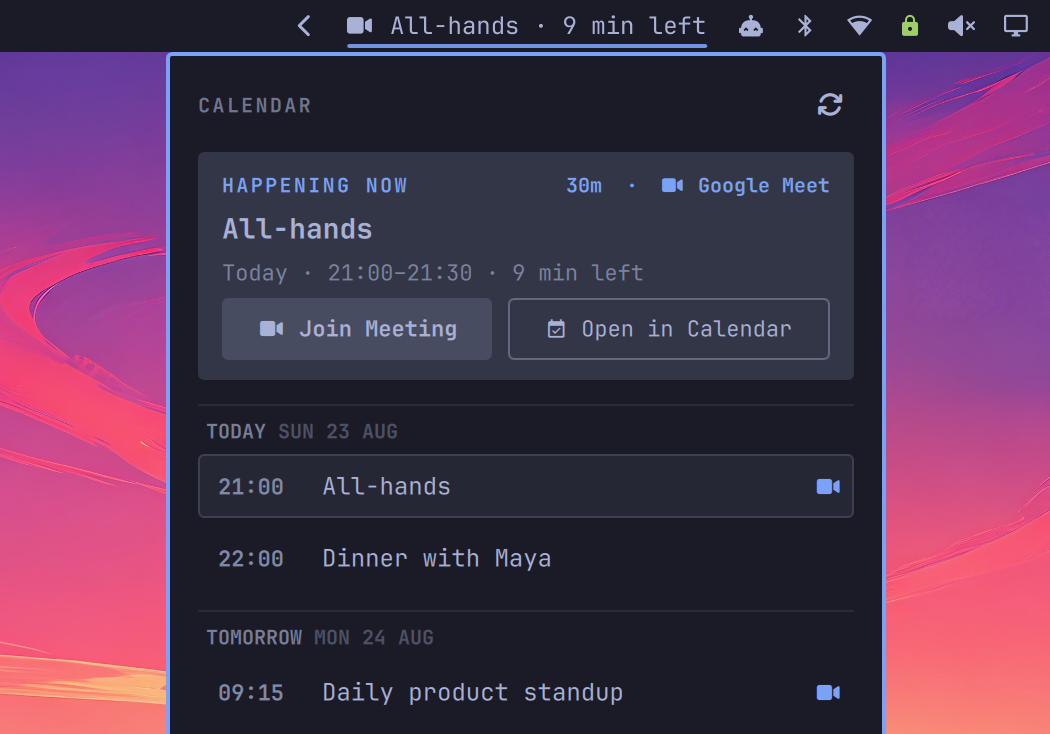
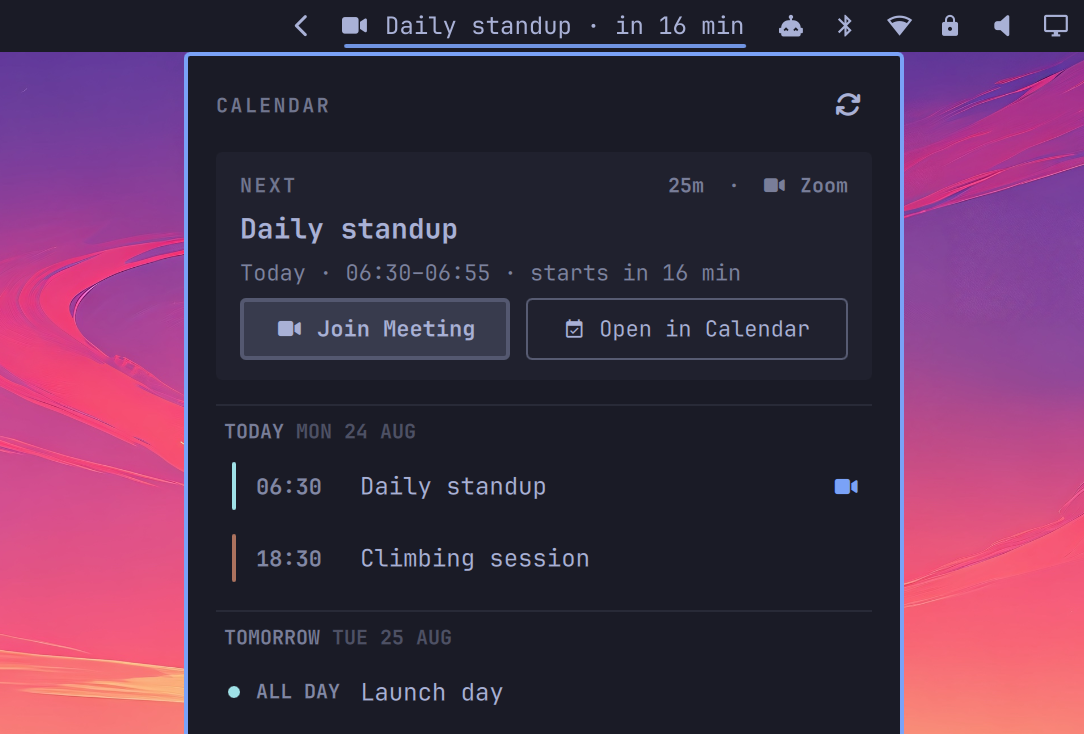
Update README

diff --git a/README.md b/README.md
@@ -1,66 +1,72 @@
 # Caldir widget for Omarchy
 
-Lightning-fast access to your next calendar events in the Omarchy bar.
-
-Supports all major calendar providers (Google Calendar, iCloud, Outlook, CalDAV...) through [caldir](https://caldir.org).
+⚡ Lightning-fast access to your calendar events in the Omarchy bar.
 
 Pairs great with [renCal](https://rencal.org).
 
 ![Screenshot](assets/screenshot.png)
 
-## Install
+## Features
+
+- Supports all major calendar providers (Google Calendar, iCloud, Outlook, CalDAV...) through [caldir](https://caldir.org)
+- Uses vim motions (<kbd>h</kbd>, <kbd>j</kbd>, <kbd>k</kbd>,<kbd>l</kbd>) for navigation
+- Highlights the next meeting when it's close to start
+- One-click action. Meeting events (Google Meet, Zoom, etc) open the video URL in your browser. Non-meeting events open in [renCal](https://rencal.org).
+- Syncs automatically (can be triggered manually with <kbd>s</kbd>)
+
+## Installation
 
 ```sh
-omarchy plugin add <repo-url> --enable
+omarchy plugin add https://github.com/t4t5/omarchy-caldir-widget --enable
 ```
 
-Requires [caldir-cli](https://caldir.org) v0.12.1 or higher.
+This will add the widget to `~/.config/omarchy/shell.json` as:
 
+```json
+{
+  "id": "org.ren.caldir",
+}
+```
 
-## Use
+## Usage
 
-- Left-click toggles the schedule panel and refreshes local event data.
-- Left-clicking a schedule row runs the event-open script. By default, video
-  meetings open through the desktop's registered HTTPS handler; other events
-  open in rencal at that event.
-- The hero's Join and Open in Calendar buttons use the same script with an
-  explicit action.
-- Right-click joins the next video meeting; if none exists, it opens the panel.
-- Middle-click runs `caldir pull` and refreshes local data when it finishes.
-- The sync button and the `s` keyboard shortcut while the panel is open do the
-  same. Automatic refreshes only re-read local caldir data and preferences with
-  `caldir events`, `caldir calendars`, and `caldir config`.
-- When the next-meeting hero is shown, keyboard focus starts on Join Meeting.
-  Left/Right or `h`/`l` switches between the hero actions, while Up/Down or `j`/`k` moves
-  between the hero and schedule events. Enter activates the focused action.
-- Escape closes the popup; Tab switches panels.
+The widget uses [caldir-cli](https://caldir.org) to read your calendar data (requires v0.12.1 or higher).
 
-Failed commands and malformed responses clear the current schedule and show
-the error in the panel. Declined invitations stay in the schedule with a
-strikethrough, but never drive the bar. Tentative and
-unanswered invitations stay in the schedule, shown dimmed and italic, but never
-drive the bar. The schedule includes all events, while the bar and next-meeting
-hero only follow events with a supported video URL. Multi-day events appear on
-each local calendar day they occupy, starting with today; event end dates are
-treated as exclusive. Schedule rows use their calendar color as a slim bar for
-timed events or a dot for all-day events. Events that already ended today remain
-in the schedule, dimmed with a check mark.
+See the caldir docs for [how to connect a calendar](https://caldir.org/quickstart/).
 
-The bar meeting follows MeetingBar's selection rules: a meeting with under a
-minute left is never shown, and a meeting in progress hands the bar to the
-following one once it starts within ten minutes, so back-to-back calls show
-the meeting you need to join next. Google Meet, Zoom, Microsoft Teams, Webex,
-Jitsi, Whereby, and Proton Meet links are detected. Links wrapped in Outlook
-SafeLinks or Google `google.com/url?q=` redirects are unwrapped before
-detection. The provider-owned `X-GOOGLE-CONFERENCE`, `X-OUTLOOK-CONFERENCE`,
-and `X-PM-CONFERENCE-URL` properties take priority. Without one of those, the
-widget checks the event URL, location, then description.
+It is also recommended to have [renCal](https://rencal.org) installed, so that you can view and edit your caldir events through a GUI.
 
-### Settings
+### Shortcuts
+
+You can add a keybinding to `~/.config/hypr/bidnings.lua` to open the widget more quickly:
+
+```lua
+o.bind("SUPER + SHIFT + C", "Toggle caldir widget", "omarchy shell org.ren.caldir toggle")
+```
+
+### IPC
+
+```sh
+omarchy shell org.ren.caldir toggle
+omarchy shell org.ren.caldir open
+omarchy shell org.ren.caldir close
+omarchy shell org.ren.caldir refresh
+```
+
+## Settings
+
+Set your preferences in `~/.config/omarchy/shell.json` 
+
+```json
+{
+  "id": "org.ren.caldir",
+  "daysAhead": 3
+}
+```
 
 | Setting | Default | Purpose |
 | --- | ---: | --- |
-| `daysAhead` | `2` | Number of future schedule days to query |
+| `daysAhead` | `2` | Number of future schedule days to display |
 | `openScript` | `""` | Path to a custom event-open script |
 
 ### Customizing event opening
@@ -103,15 +109,6 @@ resolved action and URL without opening anything:
 ```sh
 EVENT_UID='event@example.com' bin/open-event --print auto
 # calendar rencal://event?uid=event%40example.com
-```
-
-### IPC
-
-```sh
-omarchy shell org.ren.caldir refresh
-omarchy shell org.ren.caldir toggle
-omarchy shell org.ren.caldir open
-omarchy shell org.ren.caldir close
 ```
 
 ## Optional background pull

diff --git a/AGENTS.md b/AGENTS.md
@@ -1,0 +1,10 @@
+## Features
+
+### Meeting highlight
+
+Google Meet, Zoom, Microsoft Teams, Webex, Jitsi, Whereby, and Proton Meet links are detected.
+
+The bar meeting follows [MeetingBar](https://meetingbar.app/)'s selection rules:
+- a meeting with under a minute left is never shown
+- a meeting in progress hands the bar to the following one once it starts within ten minutes, so back-to-back calls show the meeting you need to join next.
+- Links wrapped in Outlook SafeLinks or Google `google.com/url?q=` redirects are unwrapped before detection. The provider-owned `X-GOOGLE-CONFERENCE`, `X-OUTLOOK-CONFERENCE`, and `X-PM-CONFERENCE-URL` properties take priority. Without one of those, the widget checks the event URL, location, then description.
